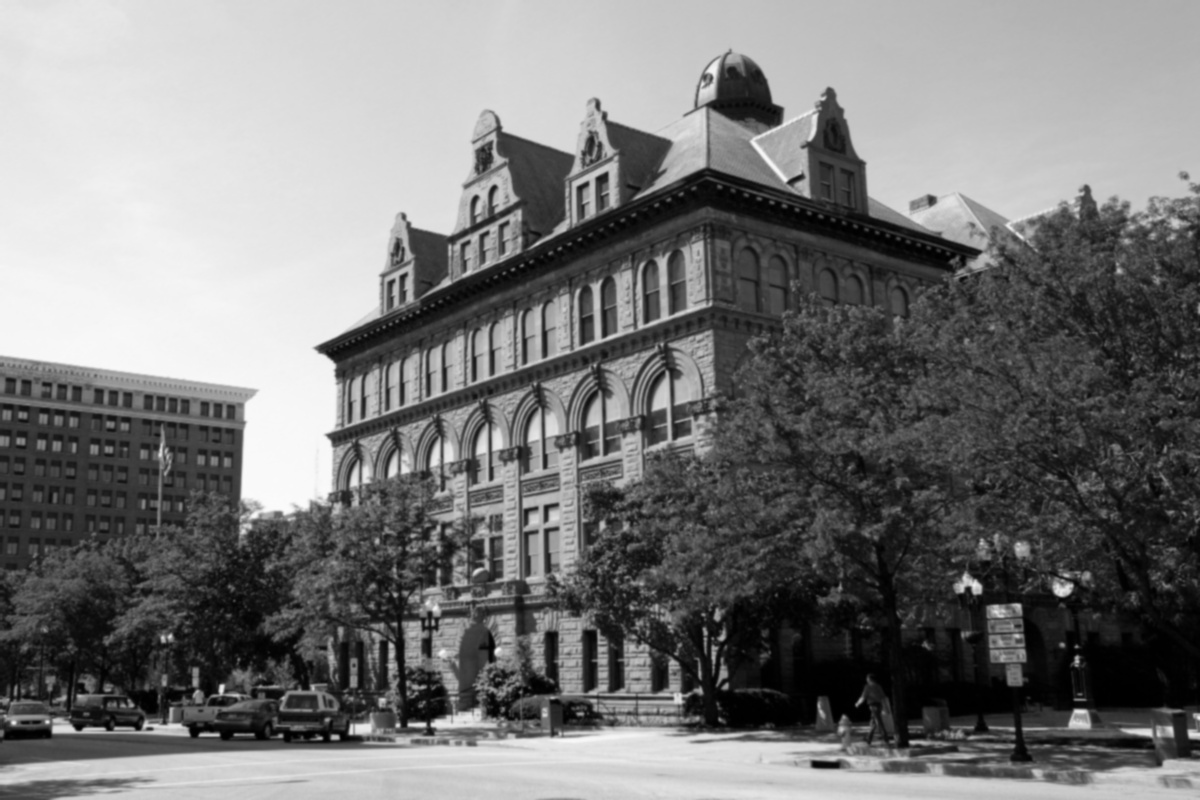
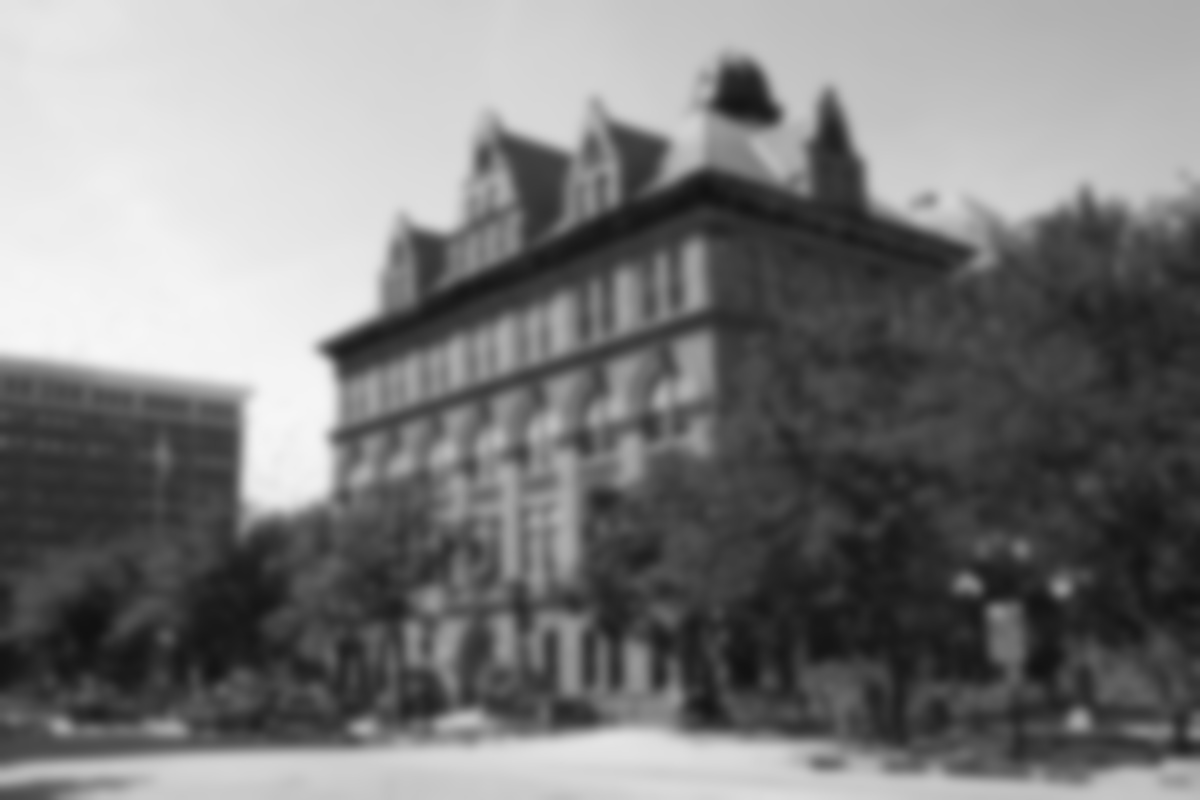
added Noise_Image_K41_S6

diff --git a/4_Gaussian_Filter/Noise_Removal.py b/4_Gaussian_Filter/Noise_Removal.py
@@ -19,7 +19,6 @@ def addGaussianNoise(img1, sigma):
     columns = img1.shape[1]
     noise = np.random.normal(0,sigma ,(rows,columns))
     noise = noise.astype(int)
-    noise = getGaussianKernel((rows,columns), sigma)
 
     return img1 + noise
 
@@ -55,8 +54,8 @@ def displayFilter():
 
 def showSlideBar():
     bar1 = Scale(root, from_=1, to=70, orient=HORIZONTAL, variable=blurSigma, length=200)
-    bar2 = Scale(root, from_=31, to=60, orient=HORIZONTAL, variable=noiseSigma, length=200)
-    bar3 = Scale(root, from_=31, to=1023, orient=HORIZONTAL, variable=kernelSize, resolution=3, length=200)
+    bar2 = Scale(root, from_=1, to=60, orient=HORIZONTAL, variable=noiseSigma, length=200)
+    bar3 = Scale(root, from_=31, to=113, orient=HORIZONTAL, variable=kernelSize, resolution=1, length=200)
 
     bar1.pack()
     bar2.pack()
